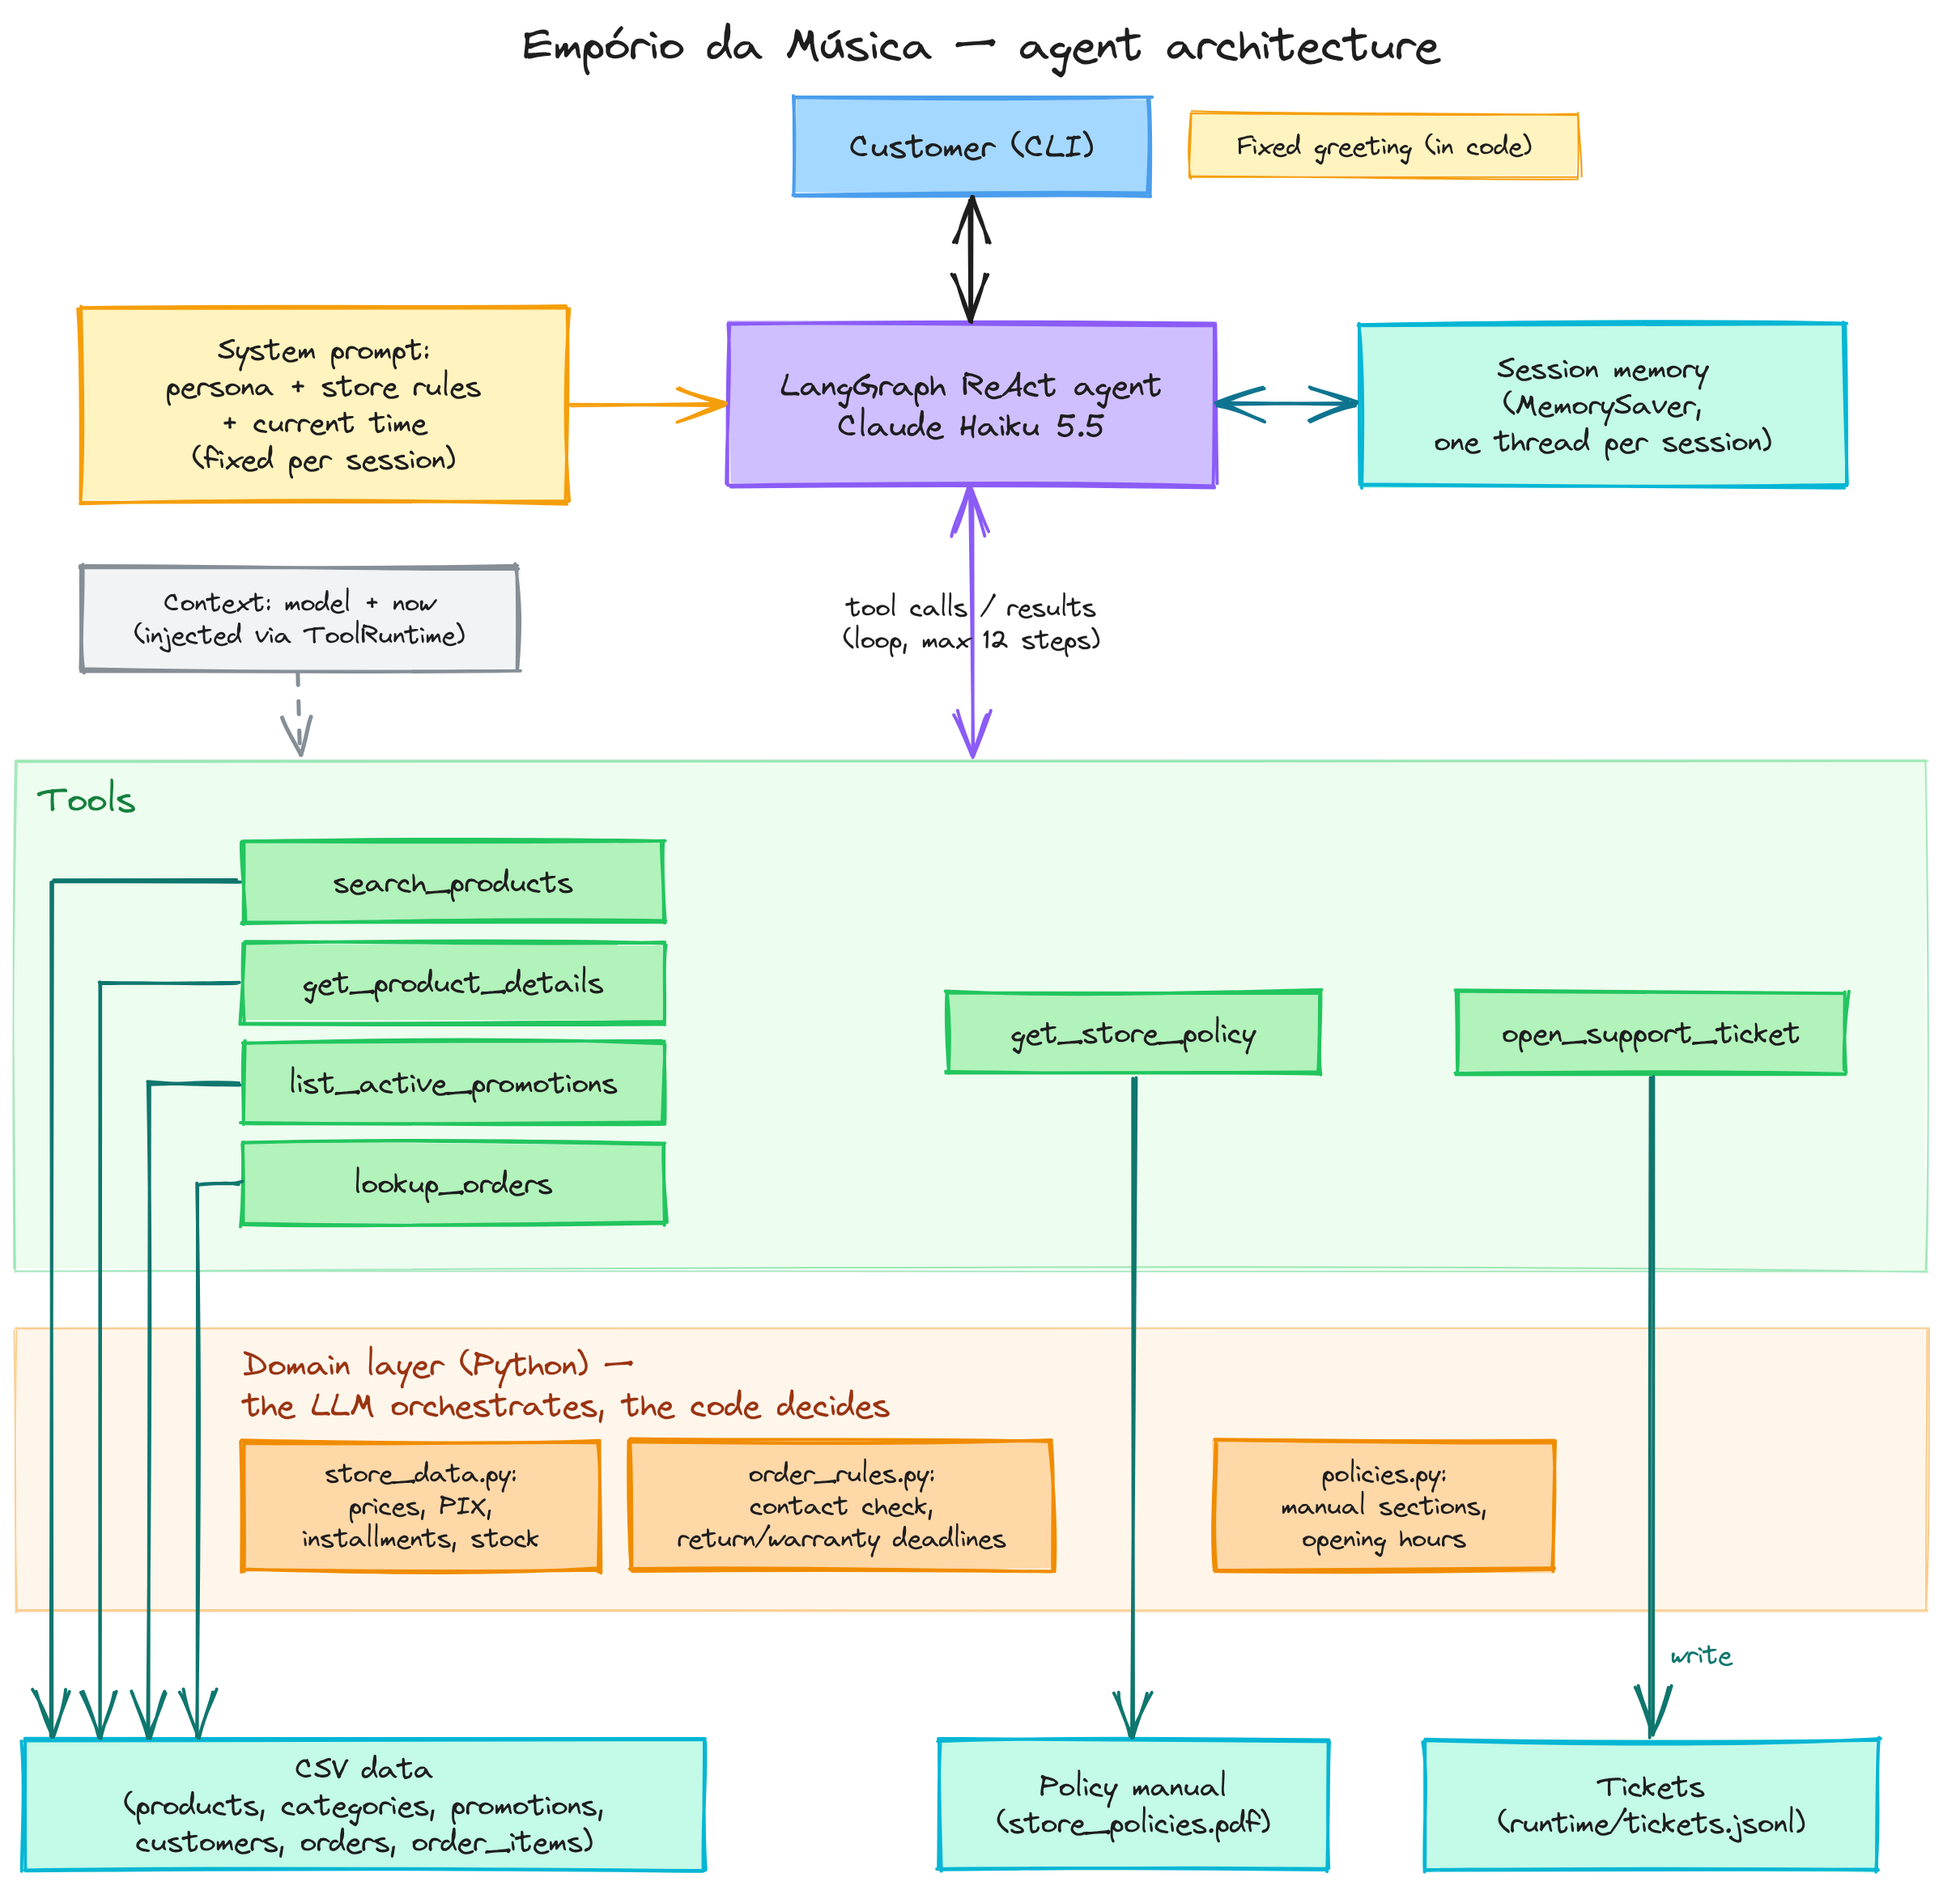
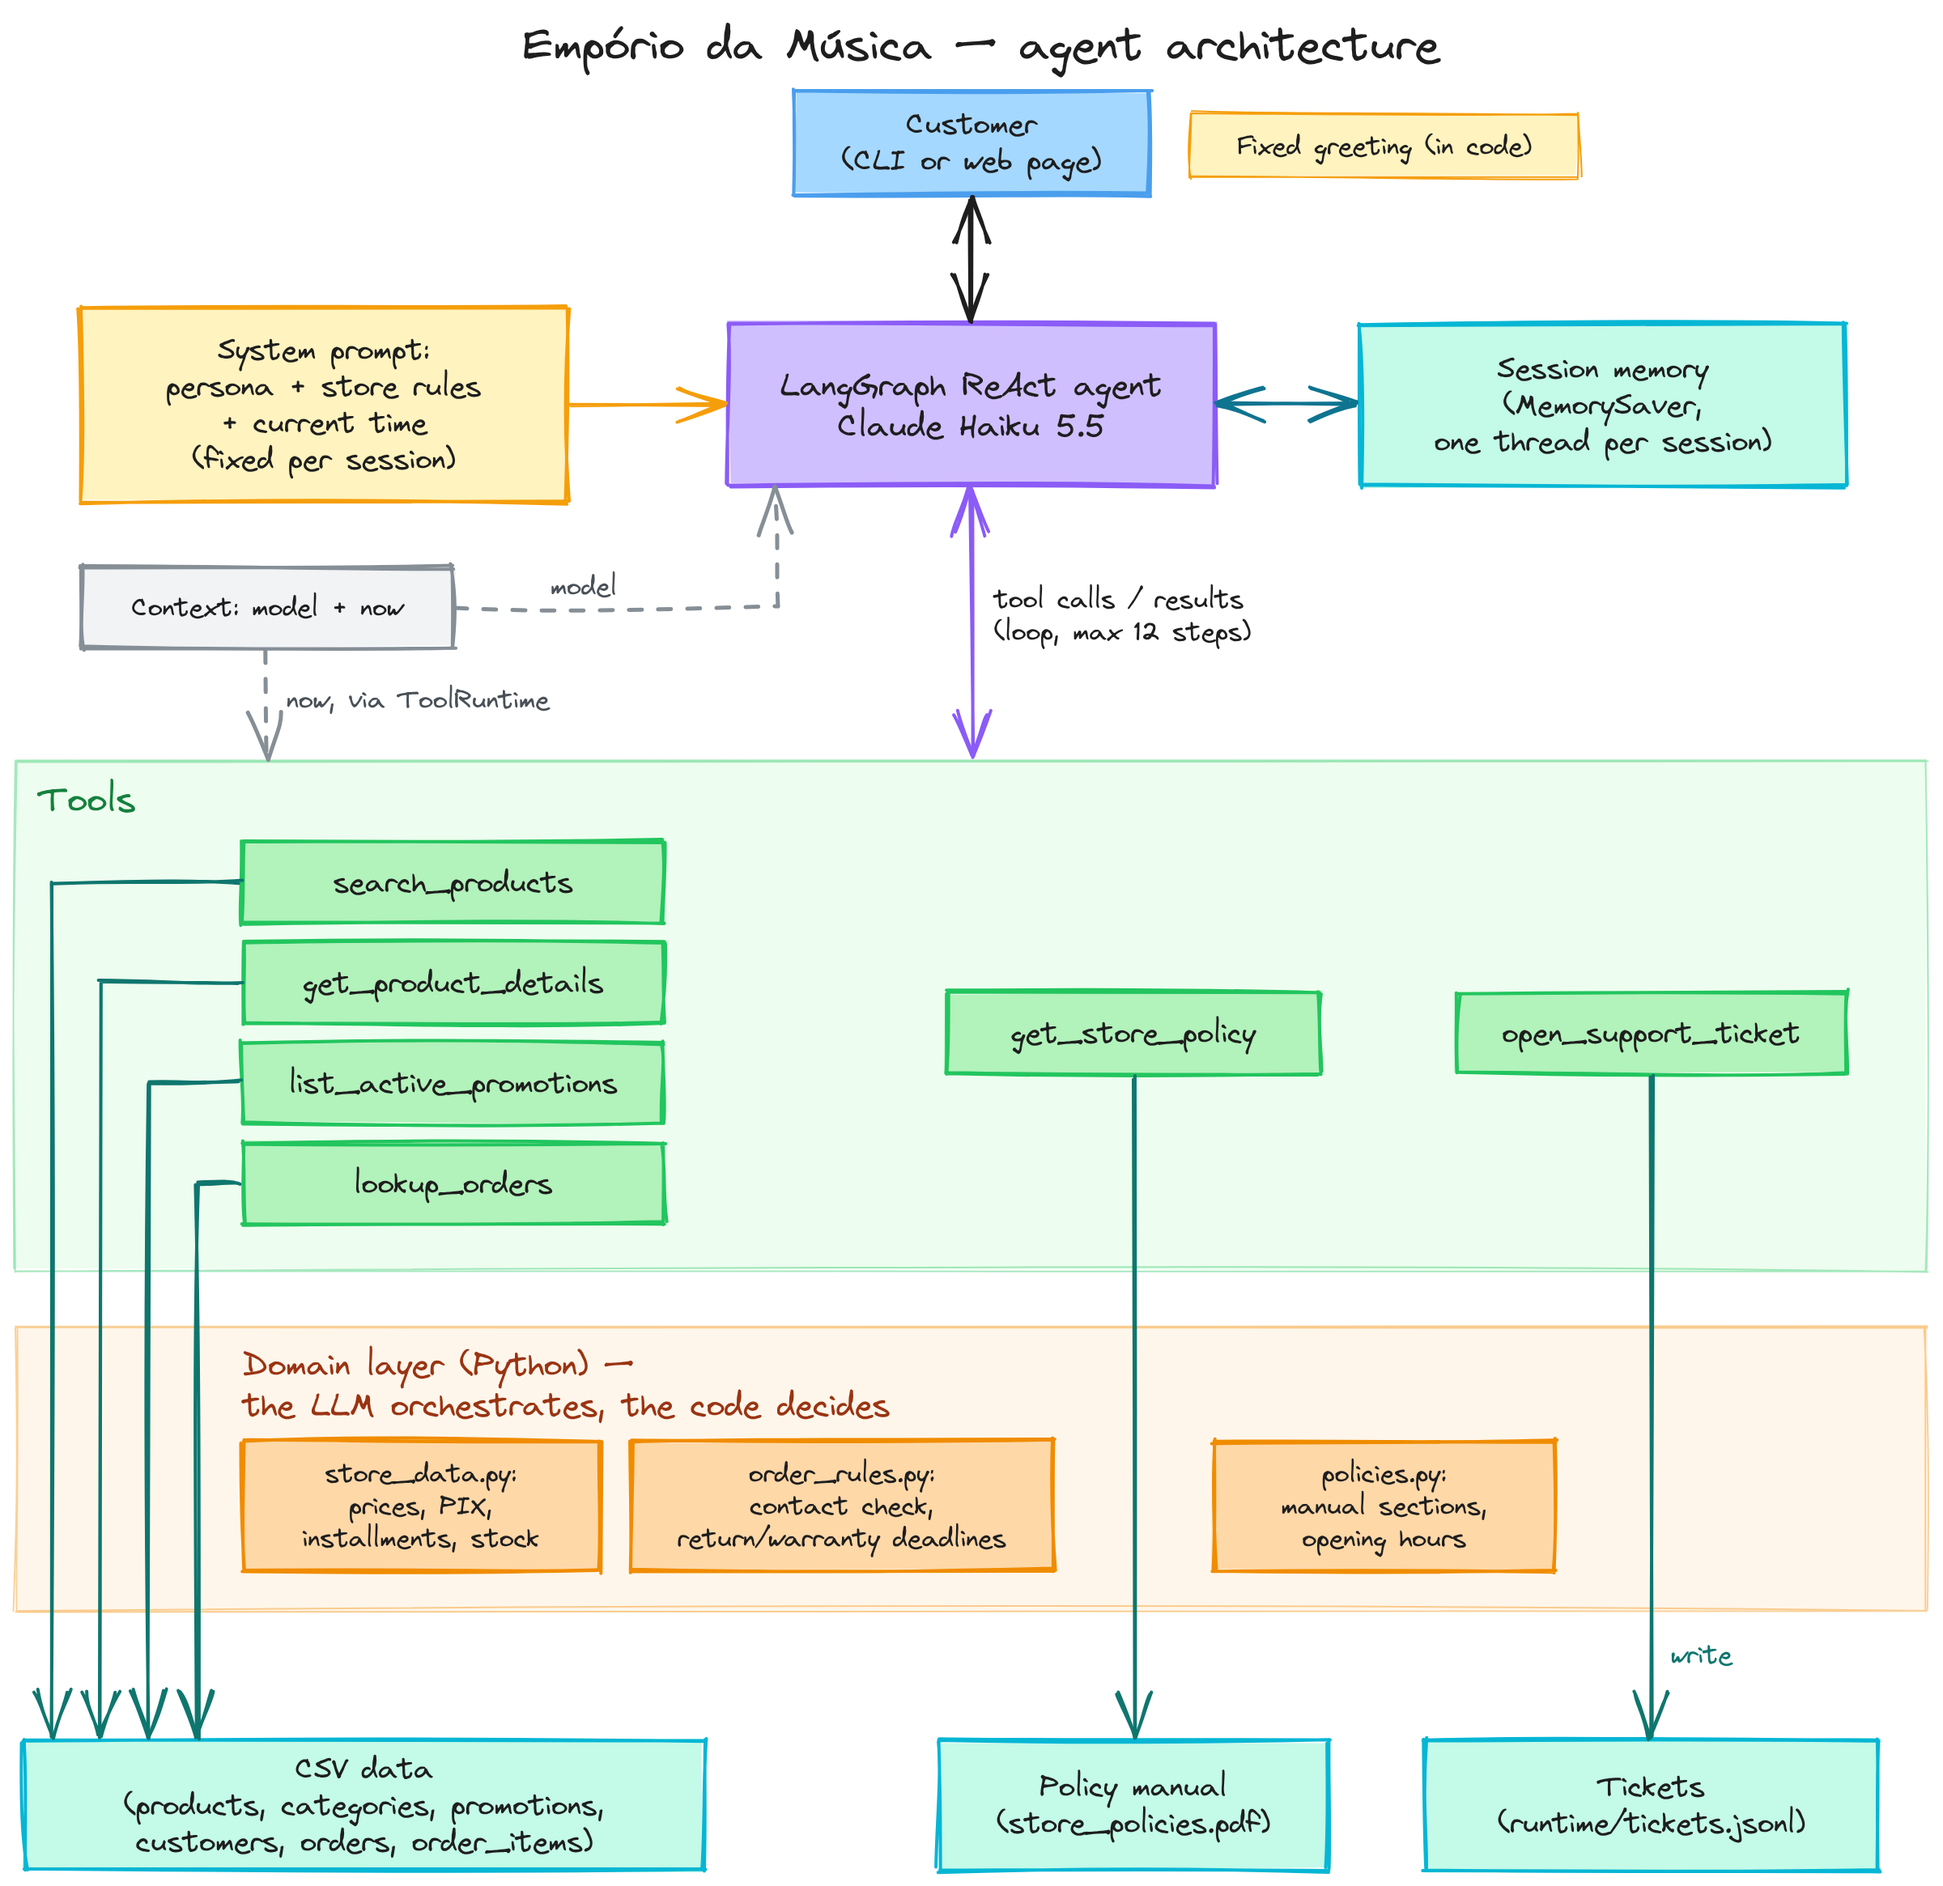
docs: update architecture diagram to match code

diff --git a/README.md b/README.md
@@ -12,7 +12,7 @@ Sample conversations, generated from real runs: [catalog and address](examples/0
 
 ![Architecture diagram](docs/architecture.png)
 
-A customer message enters the CLI, which keeps one LangGraph thread per session in memory. The `call_model` node sends the system prompt, the history and six tool schemas to Claude Haiku 5.5. If the model asks for a tool, `ToolNode` runs it and the loop returns to the model; otherwise the reply goes to the customer. The tools stay thin and call a plain-Python domain layer (`store_data.py`, `order_rules.py`, `policies.py`) that loads the CSVs and the PDF once and decides every number and rule.
+A customer message enters the CLI (or the optional web page), which keeps one LangGraph thread per session in memory. The `call_model` node sends the system prompt, the history and six tool schemas to Claude Haiku 5.5. If the model asks for a tool, `ToolNode` runs it and the loop returns to the model; otherwise the reply goes to the customer. The tools stay thin and call a plain-Python domain layer (`store_data.py`, `order_rules.py`, `policies.py`) that loads the CSVs and the PDF once and decides every number and rule.
 
 Project layout follows the official LangGraph ReAct agent template ([langchain-ai/react-agent](https://github.com/langchain-ai/react-agent), MIT), extended with a domain layer for the store data and policies. From the template I kept the `call_model` + `ToolNode` loop, the `is_last_step` step limit and the `provider/model` split in `load_chat_model`; the rest is written for this store.
 
